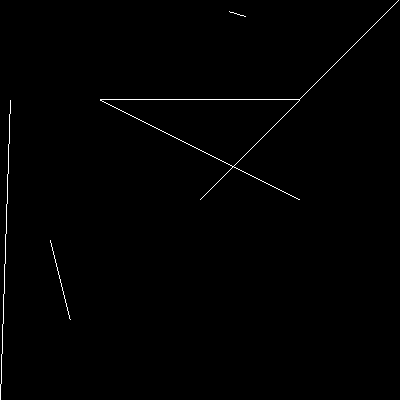
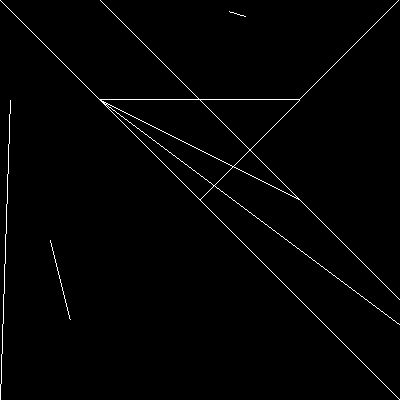
zbuffer,back face culling,interpolation

diff --git a/src/render.rs b/src/render.rs
@@ -1,8 +1,5 @@
-use std::error::Error;
-
 use crate::camera::{Camera, CameraProjection};
 use crate::color::Color;
-
 use crate::math::{Mat4, Vec2, Vec3, Vec4};
 use crate::mesh::{Mesh, Vertex};
 
@@ -19,7 +16,7 @@ impl Renderer {
 
     pub fn with_camera(mut self, camera: Camera) -> Self {
         self.frame_buffer = vec![0; camera.viewport.size() as usize * 3];
-        self.depth_buffer = vec![0.; camera.viewport.size() as usize * 3];
+        self.depth_buffer = vec![0.; camera.viewport.size() as usize];
         self.camera = camera;
         self
     }
@@ -111,15 +108,24 @@ impl Renderer {
         // 窗口变换矩阵
         let viewport_matrix = self.camera.viewport.get_viewport_matrix();
 
-        // mvp变换
+        // 模型坐标系 -> 实际坐标系
         apply_matrix(triangle, model_matrix);
+
+        // 世界坐标系 -> 视图坐标系
         apply_matrix(triangle, view_matrix);
+
+        // 背面剔除顺时针的图元
+        if !back_face_culling(triangle, Vec3::NEG_Z) {
+            return;
+        }
+
+        // 投影矩阵 从视图坐标系 -> 齐次坐标系
         apply_matrix(triangle, projection_matrix);
 
-        // 齐次除法 把经过变换后的向量变为坐标
+        // 齐次除法 齐次坐标系-> 设备标准坐标系
         homogeneous_division(triangle);
 
-        // 坐标映射到渲染窗口
+        // 设备标准坐标系 -> 视窗（屏幕）坐标系
         apply_matrix(triangle, viewport_matrix);
 
         // 光栅化处理
@@ -160,11 +166,34 @@ impl Renderer {
             .unwrap();
         for x in x_min..x_max {
             for y in y_min..y_max {
-                if inside_triangle(x as f32, y as f32, triangle) {
-                    self.draw_pixel(x, y, Color::WHITE);
+                let p_barycenter = barycentric_2d(
+                    (x as f32, y as f32).into(),
+                    triangle[0].position.xy(),
+                    triangle[1].position.xy(),
+                    triangle[2].position.xy(),
+                );
+
+                if inside_triangle_barcentric(p_barycenter) {
+                    // zbuffer
+                    let z_interpolation = triangle[0].position.z * p_barycenter.x
+                        + triangle[1].position.z * p_barycenter.y
+                        + triangle[2].position.z * p_barycenter.z;
+                    if z_interpolation
+                        < self.depth_buffer[y * self.camera.viewport.physical_size.y as usize + x]
+                    {
+                        // 颜色插值
+                        let pixel_color = triangle[0].color.unwrap_or(Color::WHITE)
+                            * p_barycenter.x
+                            + triangle[1].color.unwrap_or(Color::WHITE) * p_barycenter.y
+                            + triangle[2].color.unwrap_or(Color::WHITE) * p_barycenter.z;
+                        self.depth_buffer[y * self.camera.viewport.physical_size.y as usize + x] =
+                            z_interpolation;
+                        self.draw_pixel(x, y, pixel_color);
+                    }
                 }
             }
         }
+        self.draw_wireframe(triangle);
         #[cfg(target_featur = "info")]
         println!("rasterization:{},{},{},{}", x_min, y_min, x_max, y_max);
     }
@@ -193,24 +222,48 @@ pub fn endpoint_code(p: Vec2, rec_left_top: Vec2, rec_right_bot: Vec2) -> u8 {
     hc | vc
 }
 
-// 线段裁剪，裁剪不在窗口范围里面的线段
+// Cohen-Sutherland线段裁剪算法，裁剪不在窗口范围里面的线段
 pub fn clip_line(
     line: (Vec2, Vec2),
     rec_left_top: Vec2,
     rec_right_bot: Vec2,
 ) -> Option<(Vec2, Vec2)> {
-    let p0_code = endpoint_code(line.0, rec_left_top, rec_right_bot);
-    let p1_code = endpoint_code(line.1, rec_left_top, rec_right_bot);
+    let (mut p0, mut p1) = line;
+    let mut p0_code = endpoint_code(p0, rec_left_top, rec_right_bot);
+    let mut p1_code = endpoint_code(p1, rec_left_top, rec_right_bot);
 
-    if p0_code & p1_code != 0 {
-        return None;
-    } else if p0_code | p1_code == 0 {
-        return Some(line);
+    loop {
+        if p0_code & p1_code != 0 {
+            return None;
+        } else if p0_code | p1_code == 0 {
+            return Some((p0, p1));
+        }
+        let out_code = if p0_code > p1_code { p0_code } else { p1_code };
+        let mut p = Vec2::ZERO;
+        if out_code & TOP != 0 {
+            p.x = (p1.x - p0.x) / (p1.y - p0.y) * (rec_left_top.y - p0.y) + p0.x;
+            p.y = rec_left_top.y;
+        } else if out_code & BOTTOM != 0 {
+            p.x = p0.x + (p0.x - p0.x) * (rec_right_bot.y - p0.y) / (p1.y - p0.y);
+            p.y = rec_right_bot.y;
+        } else if out_code & RIGHT != 0 {
+            p.x = rec_right_bot.x;
+            p.y = p0.y + (p1.y - p0.y) * (rec_right_bot.x - p0.x) / (p1.x - p0.x);
+        } else if out_code & LEFT != 0 {
+            p.x = rec_left_top.x;
+            p.y = p0.y + (p1.y - p0.y) * (rec_left_top.x - p0.x) / (p1.x - p0.x);
+        }
+        if out_code == p0_code {
+            p0 = p;
+            p0_code = endpoint_code(p0, rec_left_top, rec_right_bot);
+        } else {
+            p1 = p;
+            p1_code = endpoint_code(p1, rec_left_top, rec_right_bot);
+        }
     }
-
-    return None;
 }
 
+//  通过向量叉乘判断点是否在三角形里
 fn inside_triangle(x: f32, y: f32, triangle: &[Vertex]) -> bool {
     let mut flag = 0;
     for i in 0..triangle.len() {
@@ -237,6 +290,11 @@ fn inside_triangle(x: f32, y: f32, triangle: &[Vertex]) -> bool {
     return true;
 }
 
+// 通过重心坐标判断点是否在三角形中
+fn inside_triangle_barcentric(barcentric: Vec3) -> bool {
+    barcentric.x > 0. && barcentric.y > 0. && barcentric.z > 0.
+}
+
 pub fn apply_matrix(triangle: &mut [Vertex], matrix: Mat4) {
     for i in 0..triangle.len() {
         triangle[i].position = matrix * triangle[i].position;
@@ -251,4 +309,19 @@ pub fn homogeneous_division(triangle: &mut [Vertex]) {
         x.position.w = 1.;
     })
 }
-pub fn back_face_culling(triangle: &[Vertex; 3], view_dir: Vec3) {}
+// 背面剔除，剔除所有顺时针的三角形
+pub fn back_face_culling(triangle: &[Vertex], view_dir: Vec3) -> bool {
+    let face_normal = (triangle[1].position.xyz() - triangle[0].position.xyz())
+        .cross(triangle[2].position.xyz() - triangle[1].position.xyz());
+    return face_normal.dot(view_dir) < 0.0;
+}
+// 视锥体剔除
+pub fn frustum_culling(triangle: &[Vertex; 3]) {}
+
+pub fn barycentric_2d(p: Vec2, a: Vec2, b: Vec2, c: Vec2) -> Vec3 {
+    let double_triangle_area = (b - a).cross(c - a);
+    let alpha = (b - p).cross(c - p) / double_triangle_area;
+    let beta = (c - p).cross(a - p) / double_triangle_area;
+    let gamma = (a - p).cross(b - p) / double_triangle_area;
+    [alpha, beta, gamma].into()
+}

diff --git a/src/main.rs b/src/main.rs
@@ -19,14 +19,18 @@ mod tests {
 
     fn create_render() -> Renderer {
         let camera = Camera {
-            viewport: Viewport::new((0., 0.).into(), (400., 400.).into()),
+            viewport: Viewport::new((0., 0.).into(), (1000., 1000.).into()),
             ..Default::default()
         };
         Renderer::new().with_camera(camera)
     }
     #[test]
     fn test_line() {
-        let mut renderer = create_render();
+        let camera = Camera {
+            viewport: Viewport::new((0., 0.).into(), (400., 400.).into()),
+            ..Default::default()
+        };
+        let mut renderer = Renderer::new().with_camera(camera);
         let lines = [
             ((50., 160.).into(), (70., 80.).into()),
             ((0., 0.).into(), (10., 300.).into()),
@@ -34,7 +38,10 @@ mod tests {
             ((300., 300.).into(), (100., 300.).into()),
             ((246., 383.).into(), (229., 388.).into()),
             ((399., 400.).into(), (200., 200.).into()),
-            ((3909., 4000.).into(), (2000., 2000.).into()),
+            ((500., 0.).into(), (0., 500.).into()),
+            ((500., 0.).into(), (100., 300.).into()),
+            ((800., 0.).into(), (0., 800.).into()),
+            ((400., 0.).into(), (0., 400.).into()),
         ];
         for line in lines {
             renderer.draw_line(line);
@@ -53,10 +60,12 @@ mod tests {
     fn test_mesh() {
         let mut renderer = create_render();
         let meshs = load_gltf("./assets/sphere/sphere.gltf");
+        // let meshs = load_gltf("./assets/cube/cube.gltf");
+        // let meshs = load_gltf("./assets/monkey/monkey.gltf");
 
         // 相机在 (0,0,200) 看向（0，0，0）
         renderer.camera.transform =
-            Transform::from_xyz(0., 0., 2.7).looking_at([0., 0., 0.].into(), Vec3::Y);
+            Transform::from_xyz(0., 0., 4.).looking_at([0., 0., 0.].into(), Vec3::Y);
 
         for mut mesh in meshs {
             renderer.draw_mesh(&mut mesh);
@@ -77,14 +86,17 @@ mod tests {
         let t1 = [
             Vertex {
                 position: Vec4::new(10., 70., 0., 1.),
+                color: Some(Color::RED),
                 ..Default::default()
             },
             Vertex {
                 position: Vec4::new(50., 160., 0., 1.),
+                color: Some(Color::GREEN),
                 ..Default::default()
             },
             Vertex {
                 position: Vec4::new(70., 80., 0., 1.),
+                color: Some(Color::BLUE),
                 ..Default::default()
             },
         ];
@@ -134,7 +146,7 @@ mod tests {
         let mut renderer = create_render();
         let mut triangle = [
             Vertex {
-                position: Vec4::new(50., 0., -400., 1.),
+                position: Vec4::new(100., 0., -400., 1.),
                 ..Default::default()
             },
             Vertex {
@@ -155,6 +167,60 @@ mod tests {
         renderer.draw_triangle(&mut triangle, model_matrix);
         image::save_buffer(
             "image_mvp.png",
+            &renderer.frame_buffer,
+            renderer.camera.viewport.physical_size.x as u32,
+            renderer.camera.viewport.physical_size.y as u32,
+            image::ColorType::Rgb8,
+        )
+        .unwrap();
+    }
+
+    #[test]
+    fn test_zbuffer() {
+        let mut renderer = create_render();
+        // 相机在 (0,0,300) 看向（0，0，0）
+        renderer.camera.transform =
+            Transform::from_xyz(0., 0., 600.).looking_at([0., 0., 0.].into(), Vec3::Y);
+
+        let mut triangle1 = [
+            Vertex {
+                position: Vec4::new(50., 0., 0., 1.),
+                color: Some(Color::RED),
+                ..Default::default()
+            },
+            Vertex {
+                position: Vec4::new(0., 100., 0., 1.),
+                color: Some(Color::RED),
+                ..Default::default()
+            },
+            Vertex {
+                position: Vec4::new(-50., 0., 0., 1.),
+                color: Some(Color::RED),
+                ..Default::default()
+            },
+        ];
+        let mut triangle2 = [
+            Vertex {
+                position: Vec4::new(100., 0., 100., 1.),
+                color: Some(Color::BLUE),
+                ..Default::default()
+            },
+            Vertex {
+                position: Vec4::new(0., 100., 100., 1.),
+                color: Some(Color::BLUE),
+                ..Default::default()
+            },
+            Vertex {
+                position: Vec4::new(-50., 0., 100., 1.),
+                color: Some(Color::BLUE),
+                ..Default::default()
+            },
+        ];
+        let model_matrix = Mat4::IDENTITY;
+        renderer.draw_triangle(&mut triangle2, model_matrix);
+        renderer.draw_triangle(&mut triangle1, model_matrix);
+        image::save_buffer(
+            "image_zbuffer.png",
             &renderer.frame_buffer,
             renderer.camera.viewport.physical_size.x as u32,
             renderer.camera.viewport.physical_size.y as u32,

diff --git a/README.md b/README.md
@@ -8,7 +8,7 @@ Todo:
 
 - [x] Bresenham’s Line Drawing Algorithm
 
-- [x] gltf Model
+- [x] load gltf Model
 
 - [x] Triangle Rasterization
 
@@ -16,11 +16,11 @@ Todo:
 
 - [x] Culling
 
+- [x] Z-buffer
+
 - [x] Vertex and Fragment Shader
 
 - [x] Antialiasing : SSAA MSAA FXAA
-
-- [x] Z-buffer
 
 - [x] Shadow Mapping
 
